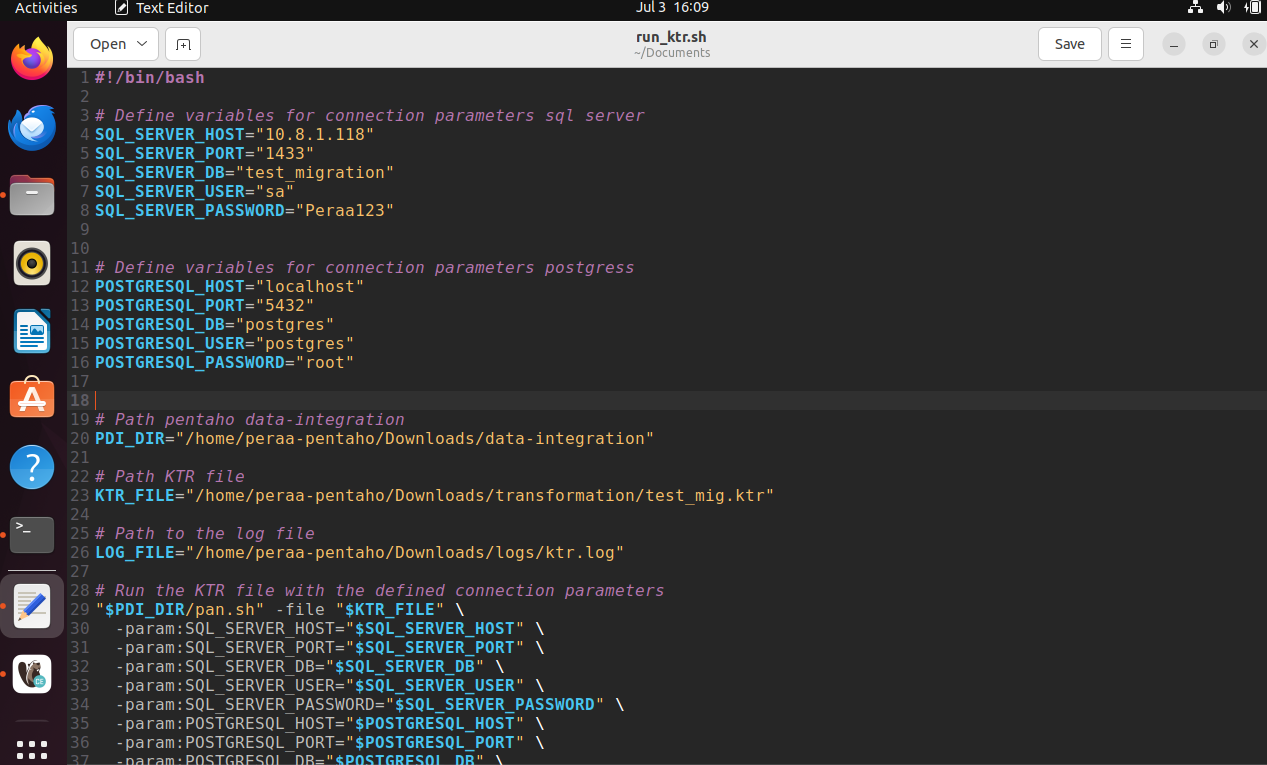
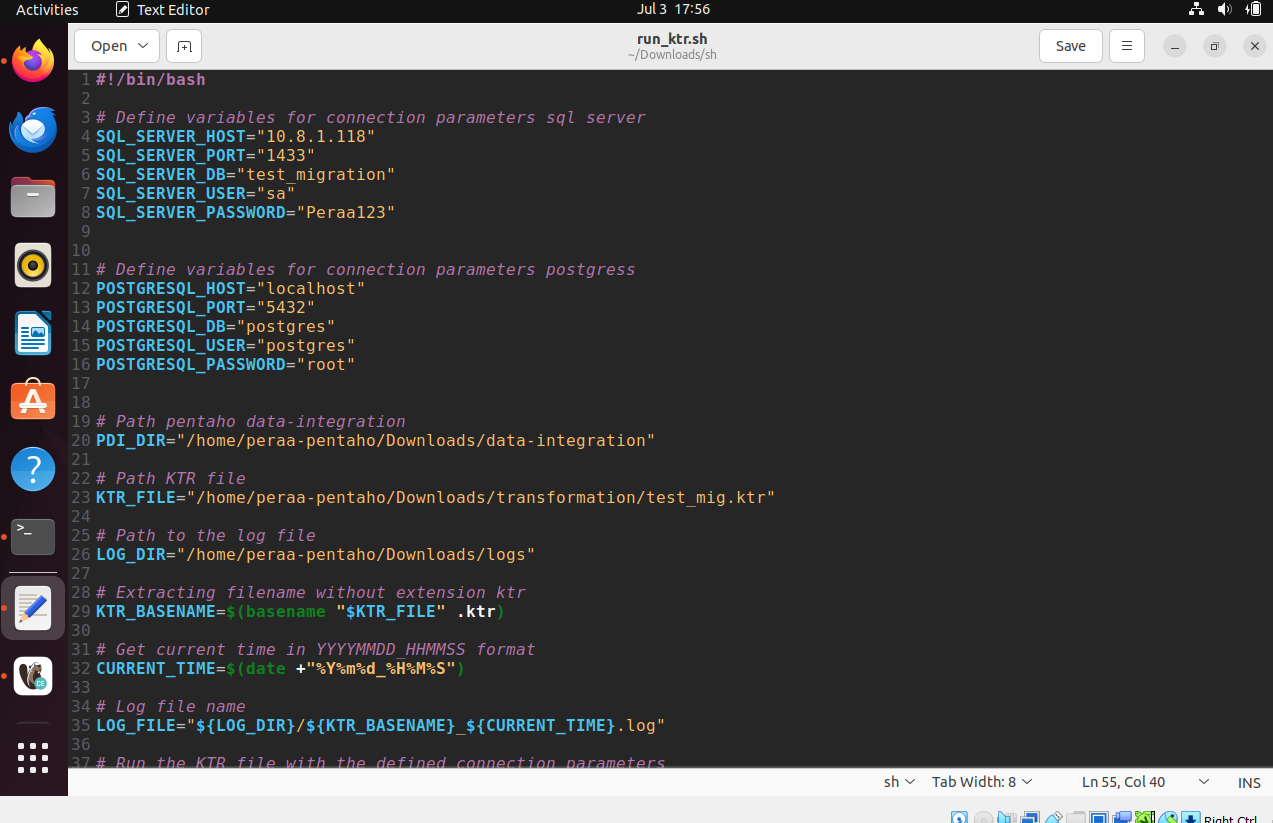
Pentaho

Changed region(s): [[0.0, 0.0, 1.0, 1.0], [0.0923, 0.0, 0.1847, 0.0301], [0.0, 0.0, 0.0616, 0.0301]]

diff --git a/8_RUNNING_SH_FILE.md b/8_RUNNING_SH_FILE.md
@@ -14,15 +14,21 @@ logs
 
 3. For SH files that your have downloaded, can be moved to the SH folder that has just been made, and For ktr files that your have download, can be moved also to the transformation folder that has jus been made.
 
-4. Open SH file with command line gedit in the terminal app.
+4. Running chmod u+w /path_log_folder so that the file log can be created when running the SH file
+```sh
+chmod u+w /home/peraa-pentaho/Downloads/logs
+```
+![SH-4](img/sh/sh4.png)
+
+5. Open SH file with command line gedit in the terminal app.
 ```sh
 gedit <your_sh_file>
 ```
 
-5. After the SH file is open, You will see the code like the image below
+6. After the SH file is open, You will see the code like the image below
 ![SH-2](img/sh/sh2.png)
 
-6. Define value variables for your connection slq server.
+7. Define value variables for your connection slq server.
 ```sh
 SQL_SERVER_HOST = "your_server_host"
 SQL_SERVER_PORT = "sql_server_port"
@@ -31,17 +37,17 @@ SQL_SERVER_USER = "your_user_name"
 SQL_SERVER_PASSWORD = "your_password"
 ```
 
-7. For value variable for connection postgres, no need to be contested
+8. For value variable for connection postgres, no need to be contested
 
-8. Save your SH file and close text editor
+9. Save your SH file and close text editor
 
-9. Run chmod command line, so that SH files can be run.
+10. Run chmod command line, so that SH files can be run.
 ```sh
 chmod +x <your_sh_file>
 ```
 
-10. Now you can run your SH file with command :
+11. Now you can run your SH file with command superadmin :
 ```sh
-./your_sh_file.sh
+sudo ./your_sh_file.sh
 ```
 ![SH-3](img/sh/sh3.png)

diff --git a/9_CHECK_LOG_FILE.md b/9_CHECK_LOG_FILE.md
@@ -1,0 +1,8 @@
+# CHECK LOG FILE
+
+If you want to check the error message or success in the SH code that you run, you can follow this step :
+
+1. Go to logs folder and you can see log file by the name your_ktr_file_current_time.log
+![LOG-1](img/log/log1.png)
+
+2. Open your log file and you can see the error message
